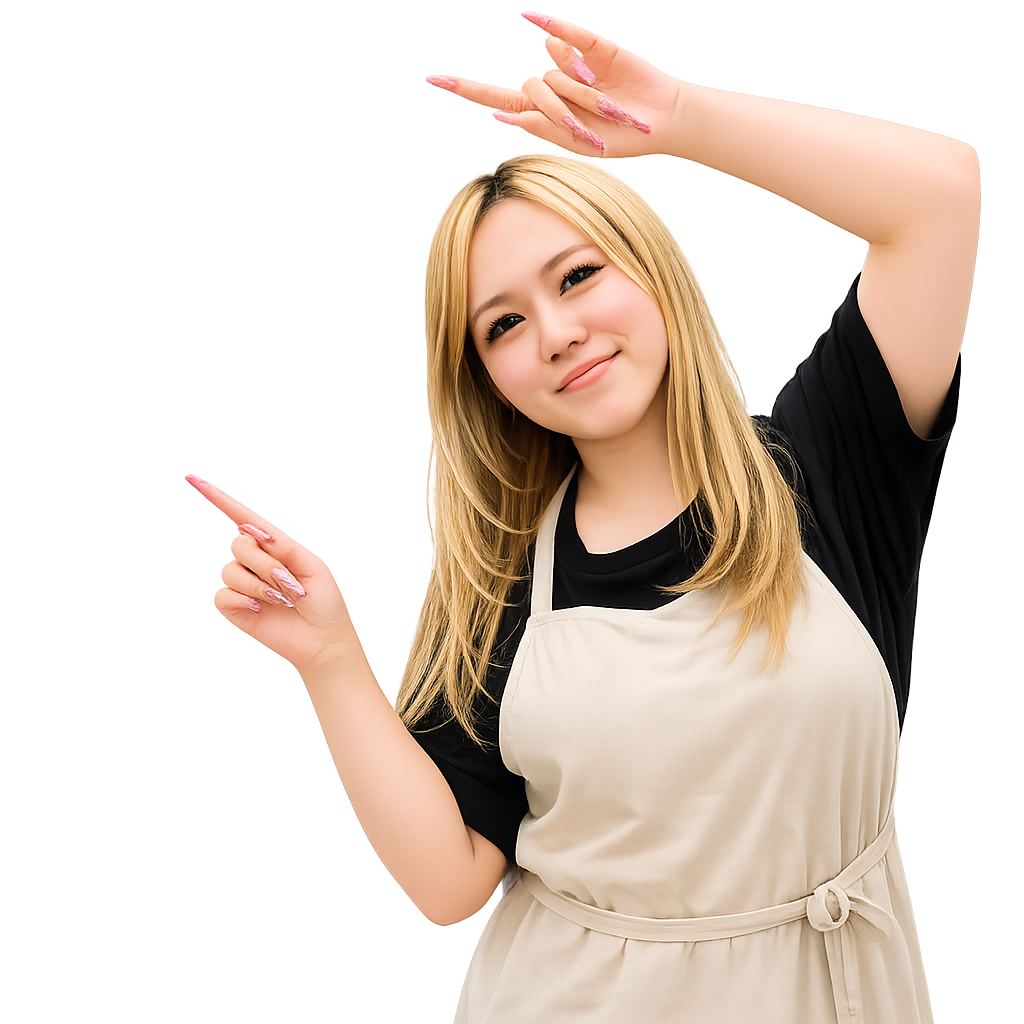
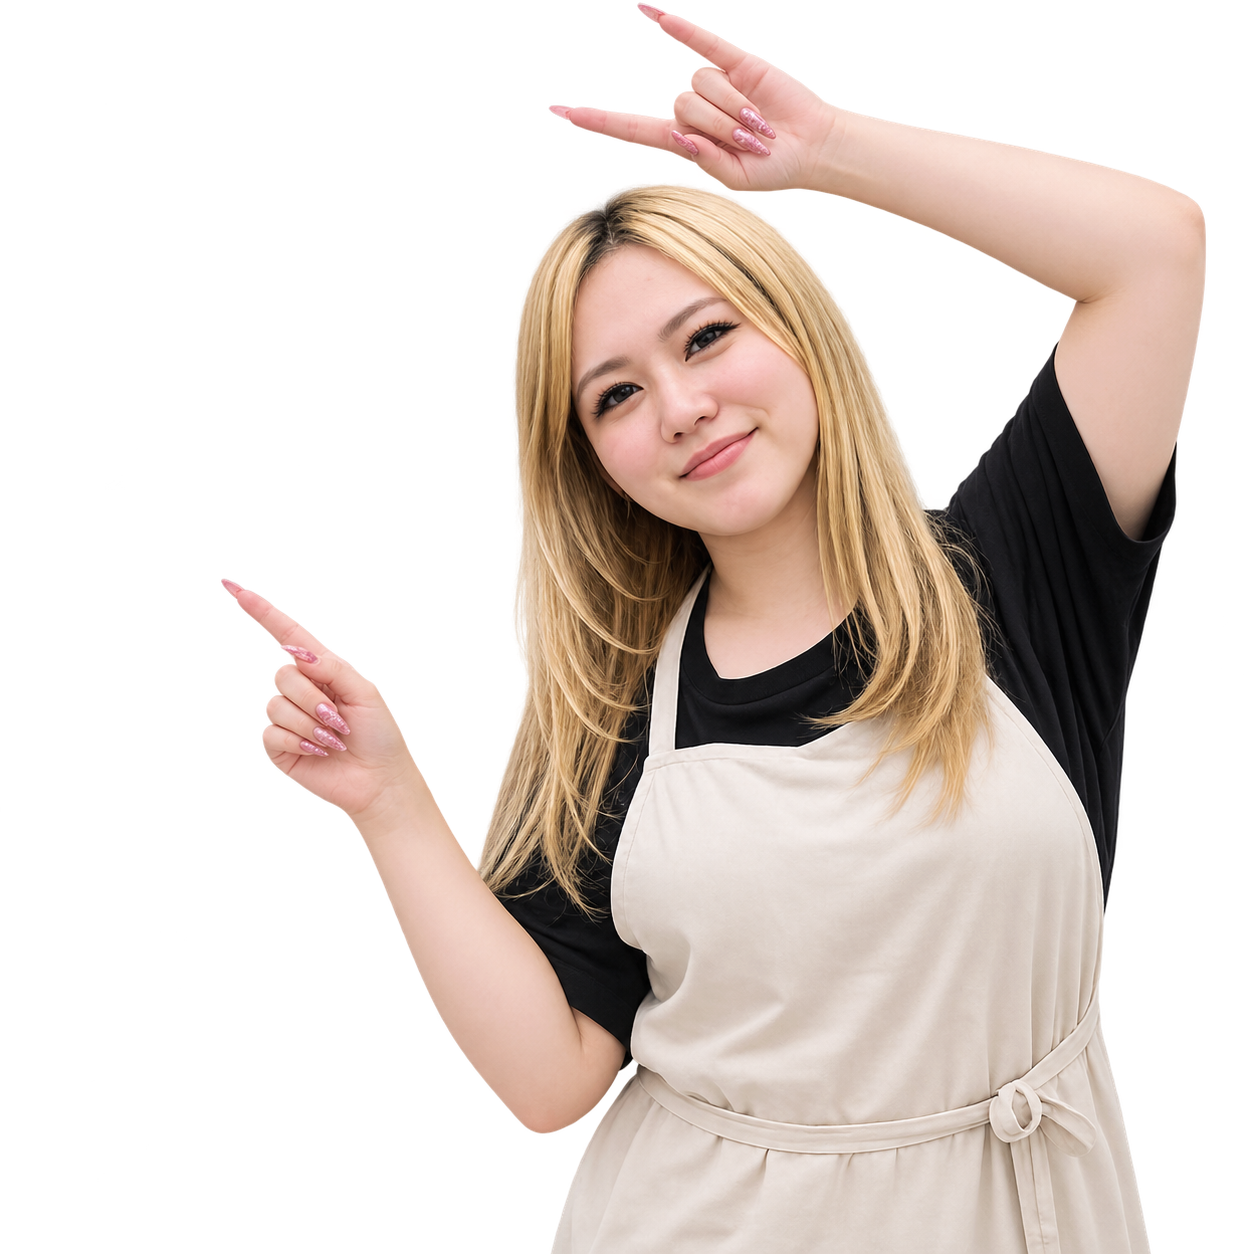
プロジェクト修正

diff --git a/wp-content/themes/fee/style.css b/wp-content/themes/fee/style.css
@@ -1,5 +1,5 @@
 /*
-Theme Name: Fee Nail Academy LP
+Theme Name: ICA 池袋キャリアアカデミー LP
 Description: WordPress Theme converted from React LP
 Author: Sasaki
 Version: 1.0

diff --git a/wp-content/themes/fee/template-parts/section-sister.php b/wp-content/themes/fee/template-parts/section-sister.php
@@ -1,0 +1,84 @@
+<?php
+// 姉妹アカデミー紹介セクション — コーディング版
+// Q&Aと漫画の間に置く。ルティナ占いアカデミー（lutina-academy.jp）へ別タブで飛ぶカードを1枚だけ表示する。
+// 画像は使わず、見出し・カード・ボタンはすべてコードで組んでいる（1em = PC 1vw / SP 2vw）。
+$sa_link = 'https://lutina-academy.jp/';
+?>
+<style>
+/* ===== 姉妹アカデミー（PC: 1920px基準 / 1em = 1vw） ===== */
+.sa { position: relative; overflow: hidden; box-sizing: border-box; text-align: center;
+  font-family: var(--font-round); font-size: 1vw; color: #3a3230;
+  background: linear-gradient(180deg, #fdf3f7 0%, #f3ecfb 100%);
+  padding: 3vw 0 3.4vw; }
+.sa * { box-sizing: border-box; }
+/* 背景のキラキラ装飾（他セクションと同じ4方向の星） */
+.sa-deco { position: absolute; z-index: 0; pointer-events: none; line-height: 1; }
+.sa-deco::before { content: "\2726"; }
+
+/* --- 見出し --- */
+.sa-head { position: relative; z-index: 1; }
+.sa-script { font-family: var(--font-script); font-size: 2.6em; line-height: 1;
+  background: var(--grad-brand);
+  -webkit-background-clip: text; background-clip: text;
+  -webkit-text-fill-color: transparent; color: transparent; }
+.sa-title { margin: 0.4vw 0 0; font-weight: 800; font-size: 3.2em; letter-spacing: .08em; color: #2f2a28; }
+.sa-title .pk { color: #ec5a96; }
+
+/* --- カード（カード全体が外部リンク） --- */
+.sa-card { position: relative; z-index: 1; display: flex; align-items: center; gap: 2.4em;
+  width: 62vw; margin: 1.8vw auto 0; padding: 2em 2.6em; text-align: left;
+  background: #fff; border: 0.15em solid #e3d6f6; border-radius: 1.6em;
+  text-decoration: none; color: inherit;
+  box-shadow: 0 0.5em 1.6em rgba(160,120,200,.18);
+  transition: transform .15s ease, box-shadow .15s ease;
+  outline: none; -webkit-tap-highlight-color: transparent; }
+.sa-card:hover { transform: translateY(-0.2em); box-shadow: 0 0.9em 2em rgba(160,120,200,.26); }
+.sa-card:active { transform: scale(.99); }
+/* 左：ロゴ風の校名ブロック（ルティナのイメージに合わせた紫のグラデ） */
+.sa-logo { flex: 0 0 auto; width: 15em; padding: 1.7em 1em; border-radius: 1.2em; text-align: center;
+  background: linear-gradient(150deg, #6b4fb0, #a98ce4); color: #fff; }
+.sa-logo-en { font-family: var(--font-en); font-weight: 600; font-size: 2.1em; line-height: 1.15; letter-spacing: .02em; }
+.sa-logo-jp { margin-top: .7em; font-size: 1em; letter-spacing: .1em; opacity: .92; }
+/* 右：説明文とボタン */
+.sa-body { flex: 1 1 auto; min-width: 0; }
+.sa-txt { margin: .6em 0 0; font-family: var(--font-jp); font-weight: 600; font-size: 1.35em; line-height: 1.8; color: #4a423f; }
+/* ボタンは説明文の下に中央揃えで置く（PC・SP共通） */
+.sa-btn { display: flex; width: fit-content; align-items: center; gap: .5em; margin: 1em auto 0;
+  background: var(--grad-pink-btn); color: #fff; font-weight: 800; font-size: 1.45em; letter-spacing: .06em;
+  padding: .6em 1.6em; border-radius: 999px; box-shadow: 0 0.3em 0.9em rgba(236,90,150,.35); }
+.sa-btn svg { width: 1em; height: 1em; flex: 0 0 auto; }
+
+/* ===== SP（1080px基準: 1em = 2vw） ===== */
+@media (max-width: 768px) {
+  .sa { font-size: 2vw; padding: 6vw 4vw 7vw; }
+  .sa-script { font-size: 2.4em; }
+  .sa-title { font-size: 2.6em; margin-top: 1vw; }
+  /* SPはロゴブロックを上、説明文を下に縦積み */
+  .sa-card { flex-direction: column; gap: 1.6em; width: 100%; margin-top: 4vw;
+    padding: 2em 1.8em 2.2em; text-align: center; border-radius: 2em; }
+  .sa-logo { width: 100%; padding: 1.4em 1em; }
+  .sa-logo-en { font-size: 2.2em; }
+  .sa-txt { font-size: 1.45em; line-height: 1.75; }
+  .sa-btn { font-size: 1.6em; padding: .7em 1.8em; }
+}
+</style>
+<section class="sa" id="sister">
+  <span class="sa-deco" style="left:8vw;top:3vw;font-size:2em;color:#c5a6ec;"></span>
+  <span class="sa-deco" style="left:14vw;top:9vw;font-size:1.2em;color:#f2c94c;"></span>
+  <span class="sa-deco" style="right:9vw;top:4vw;font-size:1.6em;color:#8ad6df;"></span>
+  <span class="sa-deco" style="right:15vw;top:11vw;font-size:2.2em;color:#f7a8c6;"></span>
+
+  <div class="sa-head">
+    <div class="sa-script">Sister Academy</div>
+    <h2 class="sa-title">姉妹アカデミーは<span class="pk">こちら</span></h2>
+  </div>
+
+  <a class="sa-card" href="<?php echo esc_url($sa_link); ?>" target="_blank" rel="noopener noreferrer">
+    <div class="sa-body">
+      <p class="sa-txt">東京・池袋で、実力派占い師から本格的な占いを学べる姉妹校です。副業からプロデビューまで、あなたの「なりたい」を全力でサポートします。</p>
+      <span class="sa-btn">サイトを見る
+        <svg viewBox="0 0 24 24" fill="none" stroke="currentColor" stroke-width="2.2" stroke-linecap="round" stroke-linejoin="round" aria-hidden="true"><path d="M14 4h6v6"/><path d="M20 4l-9 9"/><path d="M18 13.5V19a1.5 1.5 0 0 1-1.5 1.5h-11A1.5 1.5 0 0 1 4 19V8a1.5 1.5 0 0 1 1.5-1.5H10"/></svg>
+      </span>
+    </div>
+  </a>
+</section>

diff --git a/wp-content/themes/fee/template-parts/section-fv.php b/wp-content/themes/fee/template-parts/section-fv.php
@@ -62,17 +62,18 @@ $u = get_template_directory_uri();
   background-size: 0.25em 100%; background-repeat: repeat-x; }
 /* SP用のドット（デザインでは見出しの最終行の下に入る） */
 
-/* --- 池袋ネイルカレッジ 枠（角丸・ピンク〜ゴールドの細いグラデ罫） --- */
-.fv-college { position: absolute; z-index: 3; left: 15.6vw; top: 26.3vw; width: 31.4vw;
+/* --- 池袋キャリアアカデミー 枠（角丸・ピンク〜ゴールドの細いグラデ罫） --- */
+/* 校名が2文字長くなったため、枠を少し広げて文字も少し小さくしている（左右の中心位置は変えていない） */
+.fv-college { position: absolute; z-index: 3; left: 14vw; top: 26.3vw; width: 34.6vw;
   padding: 0.5em 0; text-align: center; line-height: 1.2;
-  color: #e0569a; font-weight: 700; font-size: 2.9em; letter-spacing: .1em; white-space: nowrap; }
+  color: #e0569a; font-weight: 700; font-size: 2.6em; letter-spacing: .08em; white-space: nowrap; }
 .fv-college::before { content: ""; position: absolute; inset: 0; border-radius: 0.42em;
   padding: 0.07em; background: linear-gradient(100deg, #ef9ec2 0%, #e6c68d 48%, #ef9ec2 100%);
   -webkit-mask: linear-gradient(#000 0 0) content-box, linear-gradient(#000 0 0);
   -webkit-mask-composite: xor; mask: linear-gradient(#000 0 0) content-box, linear-gradient(#000 0 0);
   mask-composite: exclude; pointer-events: none; }
 
-/* --- Fee スクリプトロゴ --- */
+/* --- ICA スクリプトロゴ --- */
 /* スクリプト体(Great Vibes)は字面がemボックスの上下にはみ出すが、background-clip:text は
    ボックスの中しか塗らないため、そのままだとロゴの上端が水平に欠ける。パディングで塗り
    範囲を広げ、同じ量のネガティブマージンで位置を元に戻している（topの値は変えない）。 */
@@ -130,7 +131,7 @@ $u = get_template_directory_uri();
   .fv-title { left: 4.8vw; top: 22.9vw; font-size: 4.7em; line-height: 1.335; }
   /* SPは見出しが3行になるため、ドットは最終行の下に独立表示 */
   .fv-title .fv-pro::after { display: none; }
-  .fv-college { left: 7.6vw; top: 69.7vw; width: 56.3vw; font-size: 2.65em; letter-spacing: .1em; }
+  .fv-college { left: 5.75vw; top: 69.7vw; width: 60vw; font-size: 2.35em; letter-spacing: .08em; }
   .fv-fee { left: 20vw; top: 83vw; width: 44vw; font-size: 7.5em; }
   .fv-fee-heart { left: 24.3vw; top: 88.4vw; font-size: 2em; }
   .fv-fee-heart2 { display: none; }
@@ -160,8 +161,8 @@ $u = get_template_directory_uri();
   <h1 class="fv-title">最短<b class="fv-num">3</b>ヶ月で<br><span class="fv-pro">プロ</span>の<br class="fv-br-sp">ネイリストへ</h1>
 
   <!-- スクール名 -->
-  <div class="fv-college">池袋ネイルカレッジ</div>
-  <div class="fv-fee">Fee</div>
+  <div class="fv-college">池袋キャリアアカデミー</div>
+  <div class="fv-fee">Ica</div>
   <span class="fv-fee-heart">&#9825;</span>
   <span class="fv-fee-heart2">&#9829;</span>
   <span class="fv-fee-spark">&#10022;</span>

diff --git a/wp-content/themes/fee/template-parts/section-access.php b/wp-content/themes/fee/template-parts/section-access.php
@@ -107,13 +107,13 @@ $u = get_template_directory_uri();
     </div>
     <div class="ac2-body">
       <div class="ac2-map">
-        <iframe src="https://maps.google.com/maps?q=%E6%9D%B1%E4%BA%AC%E9%83%BD%E8%B1%8A%E5%B3%B6%E5%8C%BA%E6%B1%A0%E8%A2%8B2-53-12&z=16&hl=ja&output=embed" loading="lazy" title="池袋ネイルカレッジ Fee アクセスマップ" referrerpolicy="no-referrer-when-downgrade"></iframe>
+        <iframe src="https://maps.google.com/maps?q=%E6%9D%B1%E4%BA%AC%E9%83%BD%E8%B1%8A%E5%B3%B6%E5%8C%BA%E6%B1%A0%E8%A2%8B2-53-12&z=16&hl=ja&output=embed" loading="lazy" title="ICA 池袋キャリアアカデミー アクセスマップ" referrerpolicy="no-referrer-when-downgrade"></iframe>
         <a class="ac2-mapbtn" href="<?php echo esc_url( $mapurl ); ?>" target="_blank" rel="noopener noreferrer" aria-label="Googleマップで見る">
           <svg class="mb-pin" viewBox="0 0 24 24" fill="currentColor" aria-hidden="true"><path d="M12 2C8.1 2 5 5.1 5 9c0 5.2 7 13 7 13s7-7.8 7-13c0-3.9-3.1-7-7-7zm0 9.5A2.5 2.5 0 1 1 12 6.5a2.5 2.5 0 0 1 0 5z"/></svg><span>マップで見る</span><svg class="mb-ext" viewBox="0 0 24 24" fill="none" stroke="currentColor" stroke-width="2.2" stroke-linecap="round" stroke-linejoin="round" aria-hidden="true"><path d="M14 4h6v6"/><path d="M20 4l-9 9"/><path d="M18 13.5V19a1.5 1.5 0 0 1-1.5 1.5h-11A1.5 1.5 0 0 1 4 19V8a1.5 1.5 0 0 1 1.5-1.5H10"/></svg>
         </a>
       </div>
       <div class="acard2">
-        <div class="acard2-ttl"><span class="acard2-ttl-em">池袋</span> ネイルカレッジ Fee</div>
+        <div class="acard2-ttl"><span class="acard2-ttl-em">ICA</span> 池袋キャリアアカデミー</div>
         <div class="acard2-row">
           <span class="acard2-ic acard2-ic-pin"><svg viewBox="0 0 24 24" fill="currentColor" aria-hidden="true"><path d="M12 2C8.1 2 5 5.1 5 9c0 5.2 7 13 7 13s7-7.8 7-13c0-3.9-3.1-7-7-7zm0 9.5A2.5 2.5 0 1 1 12 6.5a2.5 2.5 0 0 1 0 5z"/></svg></span>
           <div>
@@ -126,7 +126,7 @@ $u = get_template_directory_uri();
           <span class="acard2-ic acard2-ic-clock"><svg viewBox="0 0 24 24" fill="none" stroke="currentColor" stroke-width="2" stroke-linecap="round" stroke-linejoin="round" aria-hidden="true"><circle cx="12" cy="12" r="9"/><path d="M12 7.5v5l3.3 2"/></svg></span>
           <div>
             <div class="acard2-h acard2-h-teal">・営業時間</div>
-            <div class="acard2-txt">平日：11:00 - 21:00<br>土日祝：10:00 - 20:00<br>定休日：<span class="acard2-teal">無休</span></div>
+            <div class="acard2-txt">平日：11:00 - 21:00<br>土日祝：10:00 - 20:00</span></div>
           </div>
         </div>
         <hr class="acard2-div">

diff --git a/wp-content/themes/fee/template-parts/section-strengths.php b/wp-content/themes/fee/template-parts/section-strengths.php
@@ -97,15 +97,17 @@ $u = get_template_directory_uri();
 .st-close .c1 { color: #ef8bab; }
 .st-close .c2 { color: #f0a63c; }
 .st-close .c3 { color: #5bbfc9; }
-.st-close .dark { color: #3a3230; }
+.st-close .dark { color: #3a3230; display: block; margin-top: .2em; } /* 校名が長くなったので締めの一文は2行目に分ける */
 .st-close .fee { font-family: var(--font-script); color: #e0569a; font-size: 1.25em; padding: 0 .1em; }
+/* SPだけ「夢に向かうあなたを、」の後ろで改行する */
+.st-br-sp { display: none; }
 
 /* ===== SP（1080px基準: font-size 2vw） ===== */
 @media (max-width: 768px) {
   .st { font-size: 2vw;
     background-image: url('<?php echo $u; ?>/assets/images/strength_bg_sp.png'); }
   .st-head { padding-top: 5vw; }
-  .st-lead { font-size: 1.5em; }
+  .st-lead { font-size: 1.35em; letter-spacing: .12em; } /* 校名が長くなった分だけ詰めて1行に収める */
   .st-title { font-size: 3.6em; }
   .st-arc { width: 50vw; }
   /* SPもデザイン実測（カード幅94vw / 高さ22.7vw）に合わせる */
@@ -119,6 +121,7 @@ $u = get_template_directory_uri();
   .st-grid3 .st-c5 .st-big { font-size: 1.75em; }
   .st-grid3 .st-c6 .st-sub, .st-grid3 .st-c7 .st-sub { font-size: 1.4em; }
   .st-close { padding: 4vw 3vw 6vw; font-size: 1.5em; }
+  .st-br-sp { display: inline; }
 }
 </style>
 <section class="st" id="strengths">
@@ -135,7 +138,7 @@ $u = get_template_directory_uri();
 
   <!-- ヘッダー -->
   <div class="st-head">
-    <div class="st-lead"><span class="sl">＼</span>Fee が選ばれる理由<span class="sl">／</span></div>
+    <div class="st-lead"><span class="sl">＼</span>ICA 池袋キャリアアカデミー が選ばれる理由<span class="sl">／</span></div>
     <h2 class="st-title"><span class="n">7</span>つの<span class="g">強み</span></h2>
     <svg class="st-arc" viewBox="0 0 300 22" aria-hidden="true">
       <defs><linearGradient id="starc" x1="0" y1="0" x2="1" y2="0">
@@ -217,6 +220,6 @@ $u = get_template_directory_uri();
   <!-- 締め -->
   <div class="st-close">
     <span class="c1">学ぶ環境も、</span><span class="c2">サポートも、</span><span class="c3">すべてが充実！</span>
-    <span class="dark">　夢に向かうあなたを、<span class="fee">Fee</span> が全力で応援します！</span>
+    <span class="dark">夢に向かうあなたを、<br class="st-br-sp"><span class="fee">Ica</span> 池袋キャリアアカデミー が全力で応援します！</span>
   </div>
 </section>

diff --git a/wp-content/themes/fee/template-parts/section-concept.php b/wp-content/themes/fee/template-parts/section-concept.php
@@ -1,5 +1,5 @@
 <?php
-// コンセプトセクション（Let's Nail♡ 〜 池袋ネイルカレッジFee）— コーディング版
+// コンセプトセクション（Let's Nail♡ 〜 ICA 池袋キャリアアカデミー）— コーディング版
 // 再現元: lp-pc-1.webp（y2400〜4630付近）/ lp-sp-1.webp
 $u = get_template_directory_uri();
 ?>
@@ -39,7 +39,7 @@ $u = get_template_directory_uri();
 .cc-lead .sl { font-weight: 500; padding: 0 .5em; letter-spacing: 0; }
 .cc-name { margin: 1.2vw auto 0; padding-bottom: 4.5vw; font-family: var(--font-round);
   font-weight: 800; font-size: 4.6em; letter-spacing: .04em; color: #2f2a28; line-height: 1.3; }
-.cc-name .fee { color: #ec5a96; padding-left: .12em; }
+.cc-name .fee { color: #ec5a96; padding-right: .12em; }
 .cc-name .u { background: linear-gradient(90deg, #f48ab5, #f06ba8);
   background-size: 100% 0.14em; background-position: 50% 96%; background-repeat: no-repeat;
   padding-bottom: 0.12em; }
@@ -58,7 +58,7 @@ $u = get_template_directory_uri();
   .cc-copy-sp .big { font-size: 1.5em; }
   .cc-close { margin-top: 6vw; }
   .cc-lead { font-size: 1.6em; letter-spacing: .2em; }
-  .cc-name { font-size: 3.4em; padding-bottom: 4vw; }
+  .cc-name { font-size: 3em; padding-bottom: 4vw; } /* 校名が長くなった分だけ小さくして1行に収める */
 }
 </style>
 <section class="cc" id="concept">
@@ -122,6 +122,6 @@ $u = get_template_directory_uri();
   <!-- 締め -->
   <div class="cc-close">
     <div class="cc-lead"><span class="sl">＼</span>プロのネイリストを目指すなら&#9825;<span class="sl">／</span></div>
-    <div class="cc-name"><span class="u">池袋ネイルカレッジ<span class="fee">Fee</span></span></div>
+    <div class="cc-name"><span class="u"><span class="fee">Ica</span>池袋キャリアアカデミー</span></div>
   </div>
 </section>

diff --git a/wp-content/themes/fee/template-parts/section-compare.php b/wp-content/themes/fee/template-parts/section-compare.php
@@ -1,5 +1,5 @@
 <?php
-// 比較表セクション（池袋ネイルカレッジFee vs 一般的なスクール）— コーディング版
+// 比較表セクション（ICA 池袋キャリアアカデミー vs 一般的なスクール）— コーディング版
 // アイコン素材: compare_icon1〜6.png / compare_badge.png / compare_person.png
 // 寸法はデザインカンプ（PC 全幅=100vw基準 / SP 全幅=100vw基準）から採寸した値
 $u = get_template_directory_uri();
@@ -150,7 +150,7 @@ $u = get_template_directory_uri();
   .cm-row4 { min-height: 43.1vw; }
   .cm-row5 { min-height: 16.3vw; }
 
-  .cm-name { font-size: 3.1em; gap: 0.3em; }
+  .cm-name { font-size: 2.6em; gap: 0.3em; } /* 校名が長くなった分だけ小さくして左列の幅に収める */
   .cm-oursc { margin-top: 1.4vw; font-size: 1.96em; letter-spacing: .28em;
     padding: 0.24em 3.3em 0.24em 3.6em; }
   .cm-other { font-size: 1.88em; }
@@ -210,7 +210,7 @@ $u = get_template_directory_uri();
       <span class="cm-spark" style="left:5vw;top:5.2vw;font-size:1.9em;"></span>
       <span class="cm-spark" style="left:2.6vw;top:3.4vw;font-size:1.2em;"></span>
       <div class="cm-name">
-        <span class="cm-mk">池袋ネイルカレッジ<span class="fee">Fee</span></span>
+        <span class="cm-mk"><span class="fee">Ica</span>池袋キャリアアカデミー</span>
       </div>
       <span class="cm-oursc">当スクール</span>
     </div>

diff --git a/wp-content/themes/fee/template-parts/section-future.php b/wp-content/themes/fee/template-parts/section-future.php
@@ -69,7 +69,7 @@ $u = get_template_directory_uri();
   .fu-head { padding-top: 4vw; }
   .fu-script { font-size: 2.2em; }
   .fu-t1 { font-size: 2.4em; }
-  .fu-t2 { font-size: 2em; }
+  .fu-t2 { font-size: 1.8em; } /* 校名が長くなった分だけ小さくして1行に収める */
   .fu-line { width: 76vw; height: 0.5vw; }
   .fu-grid { grid-template-columns: 1fr; gap: 4vw; max-width: 92vw; margin-top: 4vw; }
   .fu-card { border-radius: 2.4vw; padding: 3.5vw; gap: 1.5vw 3vw; }
@@ -102,7 +102,7 @@ $u = get_template_directory_uri();
     <span class="fu-spark" style="right:21vw;top:8.5vw;color:#f2c94c;font-size:1.2em;"></span>
     <div class="fu-script">After Graduation</div>
     <h2 class="fu-t1">卒業後</h2>
-    <div class="fu-t2">池袋ネイルカレッジFee を卒業すると...</div>
+    <div class="fu-t2">ICA 池袋キャリアアカデミー を卒業すると...</div>
     <span class="fu-line"></span>
   </div>
 

diff --git a/wp-content/themes/fee/index.php b/wp-content/themes/fee/index.php
@@ -1,5 +1,5 @@
 <?php
-// 池袋ネイルカレッジFee LP — コーディング版
+// ICA 池袋キャリアアカデミー LP — コーディング版
 // 各セクションは template-parts/section-*.php に分割（1セクション=1ファイル）。
 // 文字はHTML直書き・写真は assets/images/parts/ のファイル差し替えで個別に編集できる。
 // <head>とヘッダーは header.php、フッターとCTAバーは footer.php（漫画ページと共用）。
@@ -22,6 +22,7 @@ get_header();
   <?php get_template_part('template-parts/section-steps'); ?>
   <?php get_template_part('template-parts/section-access'); ?>
   <?php get_template_part('template-parts/section-faq'); ?>
+  <?php get_template_part('template-parts/section-sister'); ?>
   <?php get_template_part('template-parts/section-manga'); ?>
 </main>
 

diff --git a/wp-content/themes/fee/template-parts/header-pc.php b/wp-content/themes/fee/template-parts/header-pc.php
@@ -46,9 +46,9 @@ $a = is_front_page() ? '' : esc_url( home_url('/') );
 }
 </style>
 <header class="pchead2">
-  <a class="pchead2-logo" href="<?php echo $a; ?>#pagetop" aria-label="池袋ネイルカレッジ Fee トップへ">
-    <span class="pchead2-fee">Fee</span>
-    <span class="pchead2-sub">池袋ネイルカレッジ</span>
+  <a class="pchead2-logo" href="<?php echo $a; ?>#pagetop" aria-label="ICA 池袋キャリアアカデミー トップへ">
+    <span class="pchead2-fee">Ica</span>
+    <span class="pchead2-sub">池袋キャリアアカデミー</span>
   </a>
   <nav class="pchead2-nav">
     <a href="<?php echo $a; ?>#features">アカデミー紹介</a>

diff --git a/wp-content/themes/fee/template-parts/section-reasons.php b/wp-content/themes/fee/template-parts/section-reasons.php
@@ -124,7 +124,7 @@ $u = get_template_directory_uri();
       アカデミー<span class="pk">紹介</span>
     </h2>
     <div class="rs-six">
-      <span class="pre">池袋ネイルカレッジ Fee が選ばれる</span>
+      <span class="pre">ICA 池袋キャリアアカデミー が選ばれる</span>
       <span class="big"><span class="n">6</span>つの理由</span>
     </div>
   </div>

diff --git a/wp-content/themes/fee/footer.php b/wp-content/themes/fee/footer.php
@@ -4,7 +4,7 @@
 ?>
 <!-- フッター -->
 <footer class="site-footer">
-  <div class="ft-copy">© <?php echo esc_html( date('Y') ); ?> Fee nail academy</div>
+  <div class="ft-copy">© <?php echo esc_html( date('Y') ); ?> ICA 池袋キャリアアカデミー</div>
 </footer>
 
 <!-- 画面下部固定CTA -->
